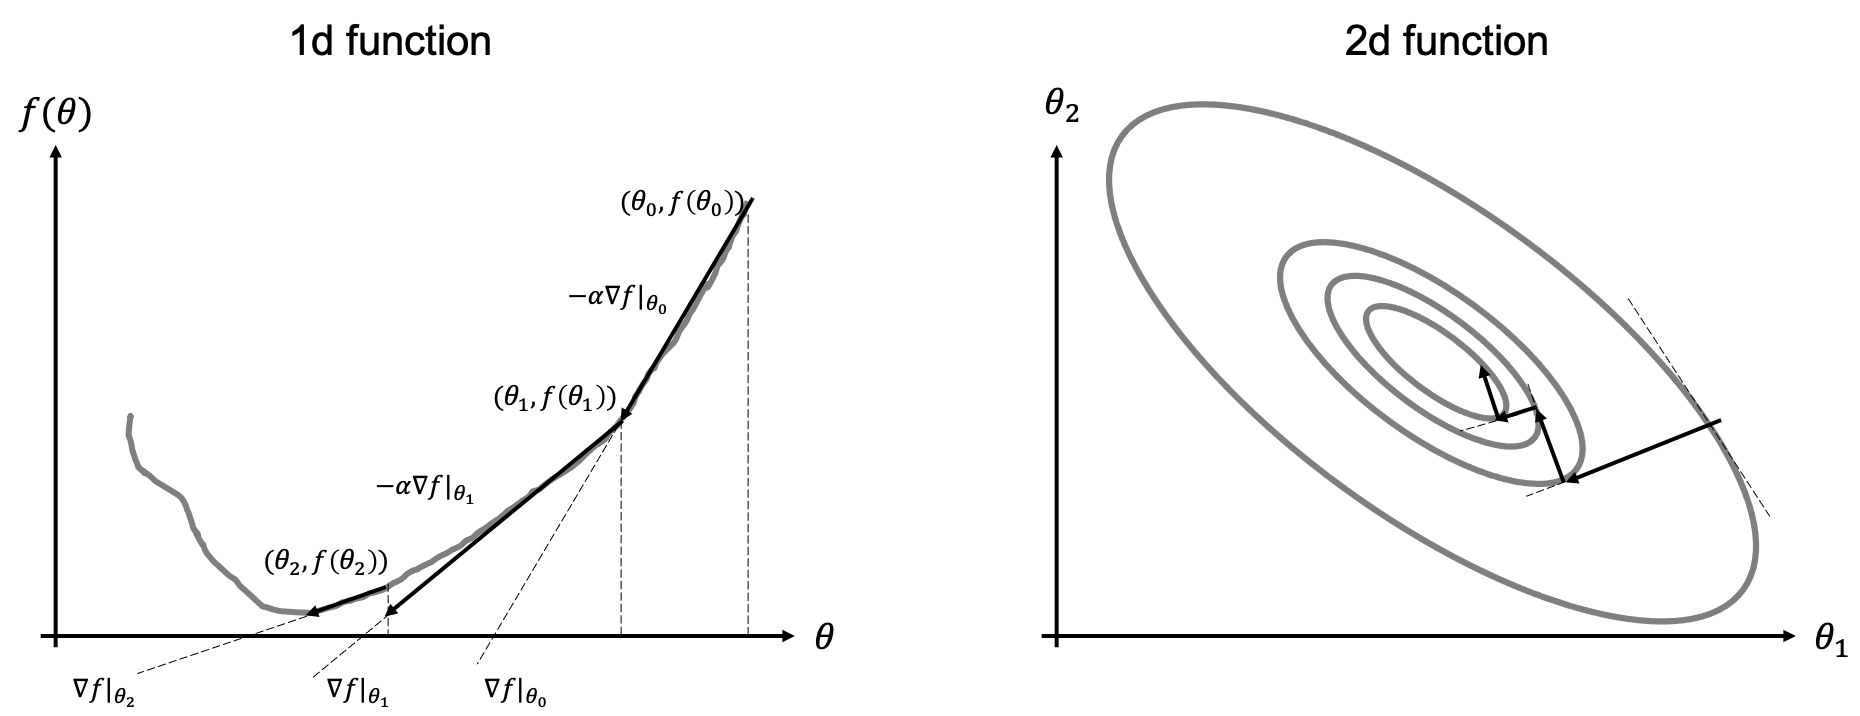
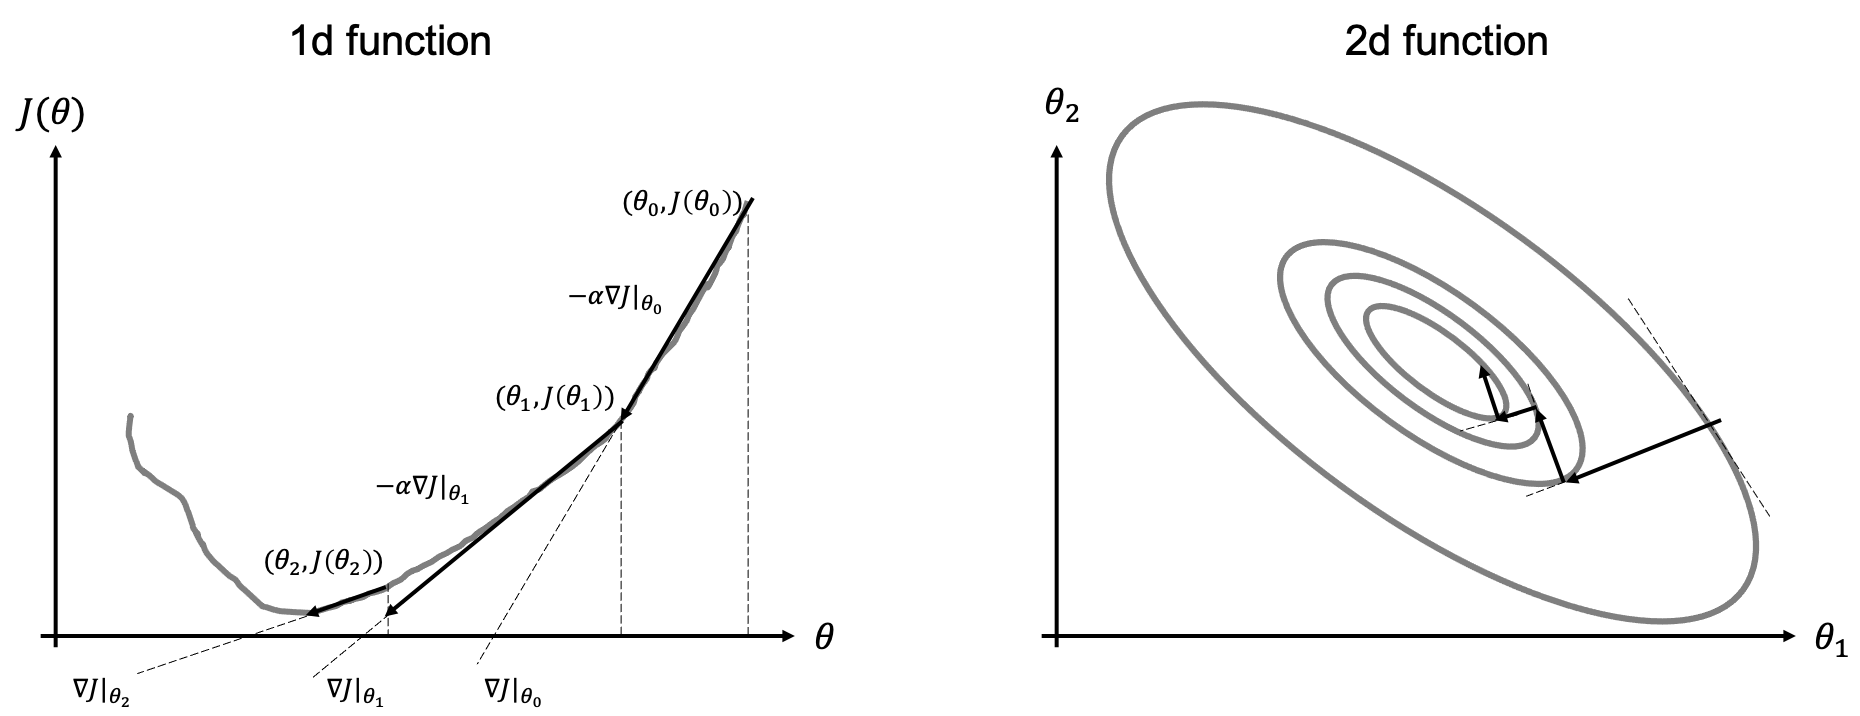
Finalized gradopt lecture and figures

diff --git a/docs/lectures/3_gradopt.md b/docs/lectures/3_gradopt.md
@@ -1,7 +1,8 @@
 # Gradient-based optimization
-After reviewing some of the basic concepts of linear algebra that we will be using during this course, we are now in a position
-to start our journey in the field of *learning algorithms*. Any learning algorithm, no matter its level of complexity, is 
-composed of 4 key elements:
+After reviewing some of the basic concepts of linear algebra and probability that we will be using during this course, 
+we are now in a position to start our journey in the field of *learning algorithms*. 
+
+Any learning algorithm, no matter its level of complexity, is composed of 4 key elements:
 
 **Dataset**: a collection of many examples (sometimes referred to as samples of data points) that represents the experience
 we wish our machine learning algorithm to learn from. More speficically, the dataset is defined as:
@@ -25,15 +26,15 @@ $$
 **Loss (and cost) function**: quantitative measure of the performance of the learning algorithm, which we wish to minimize 
 (or maximize) in order to make accurate predictions on unseen data. It is written as
 $$
-J = \sum_{i=1}^{N_s}  \mathscr{L} (\mathbf{y}^{(i)}, f(\mathbf{x}^{(i)}))
+J_\theta = \frac{1}{N_s} \sum_{j=1}^{N_s} \mathscr{L} (\mathbf{y}^{(j)}, f_\theta(\mathbf{x}^{(j)}))
 $$
 
 where $\mathscr{L}$ is the loss function for each input-output pair and $J$ is the overall cost function.
 
-**Optimization algorithm**: mathematical method that modifies the aims to drive down (up) the cost function by modifying
+**Optimization algorithm**: mathematical method that aims to drive down (up) the cost function by modifying
 its free-parameters $\theta$:
 $$
-\hat{\theta} = \underset{\theta} {\mathrm{argmin}} J
+\hat{\theta} = \underset{\theta} {\mathrm{argmin}} \; J_\theta
 $$
 
 Optimization algorithms are generally divided into two main families: gradient-based 
@@ -47,21 +48,21 @@ mimimum/maximum as depicted in the figure below.
 
 ![GRADIENT OPTIMIZATION](figs/opt_gradient.png)
 
-More formally, given a functional $f_\theta$ and its gradient $\nabla f = \frac{\delta f}{\delta \theta}$, 
-the (minimization) algorithm can be written as:
+More formally, given a functional $J_\theta$ and its gradient 
+$\nabla J = \frac{\delta J}{\delta \theta}$, the (minimization) algorithm can be written as:
 
 Initialization: choose $\theta \in \mathbb{R}$
 
 For $i=0,...N-1$;
 
-1. Compute update direction $d_i = -\nabla f |_{\theta_i}$
+1. Compute update direction $d_i = -\nabla J |_{\theta_i}$
 2. Estimate step-lenght $\alpha_i$
 3. Update $\theta_{i+1} = \theta_{i} + \alpha_i d_i$
 
 Note that the maximization version of this algorithm simply switches the sign in the update direction (first equation of the algorithm).
 Moreover, the proposed algorithm can be easily extended to N-dimensional model vectors $\theta=[\theta_1, \theta_2, ..., \theta_N]$ by
 defining the following gradient vector 
-$\nabla f=[\delta f / \delta\theta_1, \delta f / \delta\theta_2, ..., \delta f/ \delta\theta_N]$.
+$\nabla J=[\delta J / \delta\theta_1, \delta J / \delta\theta_2, ..., \delta J/ \delta\theta_N]$.
 
 ### Step lenght selection
 The choice of the step-lenght has tremendous impact on the performance of the algorithm and its ability to converge 
@@ -72,66 +73,64 @@ The most used selection rules are:
 - Constant: the step size is fixed to a constant value $\alpha_i=\hat{\alpha}$. This is the most common situation that we
   will encounter when training neural networks. In practice, some adaptive schemes based on the evolution of the train
   (or validation) norm are generally adopted, but we will still refer to this case as costant step size;
-- Exact linesearch: at each iteration, $\alpha_i$ is chosen such that it minimizes $f(\theta_{i} + \alpha_i d_i)$. This
+- Exact linesearch: at each iteration, $\alpha_i$ is chosen such that it minimizes $J(\theta_{i} + \alpha_i d_i)$. This
   is the most commonly used approach when dealing with linear systems of equations.
 - Backtracking  "Armijo" linesearch: at each iteration, given a parameter $\mu \in (0,1)$, start with $\alpha_i=1$ 
-  and reduce it by a factor of 2 until the following condition is satisfied: $f(\theta_i) - f(\theta_{i} + \alpha_i d_i) \ge  -\mu \alpha_i \nabla f^T d_i$
+  and reduce it by a factor of 2 until the following condition is satisfied: $J(\theta_i) - J(\theta_{i} + \alpha_i d_i) \ge  -\mu \alpha_i \nabla J^T d_i$
   
 ## Second-order optimization
-Up until now we have discussed first-order optimization techniques that rely on the ability to evaluate the function $f$ and 
-its gradient $\nabla f$. Second-order optimization method go one step beyond in that they use information from both the 
-local slope and curvature of the function f. 
+Up until now we have discussed first-order optimization techniques that rely on the ability to evaluate the function $J$ and 
+its gradient $\nabla J$. Second-order optimization method go one step beyond in that they use information from both the 
+local slope and curvature of the function $J$. 
 
 When a function has small curvature, the function and its tangent line are very similar: 
-the gradient alone is therefore able to provide a good local approximation of the function (i.e., $f(\theta+\delta \theta)\approx f(\theta) + \nabla f \delta \theta$).
+the gradient alone is therefore able to provide a good local approximation of the function (i.e., $J(\theta+\delta \theta)\approx J(\theta) + \nabla J \delta \theta$).
 On the other hand, if the curvature of the function of large, the function and its tangent line start to differ very quickly away from
 the linearization point. The gradient alone is not able anymore to provide a good local approximation of the function 
-(i.e., $f(\theta+\delta \theta)\approx f(\theta) + \nabla f \delta \theta + \nabla^2 f \delta \theta^2$).
+(i.e., $J(\theta+\delta \theta)\approx J(\theta) + \nabla J \delta \theta + \nabla^2 J \delta \theta^2$).
 
 Let's start again from the one-dimensional case and the well-known **Newton's method**. This method is generally employed to find the zeros of a function:
-$x: f(x)=0$ and can be written as:
+$\theta: J(\theta)=0$ and can be written as:
 
 $$
-x_{i+1} = x_i - \frac{f(x)|_{x_i}}{f'(x)|_{x_i}} 
+\theta_{i+1} = \theta_i - \frac{J(\theta)|_{\theta_i}}{J'(\theta)|_{\theta_i}} 
 $$
 
-which can be easily derived from the Taylor expansion of $f(x)$ around $x_{i+1}$.
+which can be easily derived from the Taylor expansion of $f(\theta)$ around $\theta_{i+1}$.
 
 If we remember that finding the minimum (or maximum) of a function is equivalent to find the zeros of its first derivative 
-($x: min_x f(x) \leftrightarrow x: f'(x)=0$), the Netwon's method can
-be written as:
+($\theta: min_\theta f(\theta) \leftrightarrow \theta: f'(\theta)=0$), the Netwon's method can be written as:
 
 $$
-x_{i+1} = x_i - \frac{f'(x)|_{x_i}}{f''(x)|_{x_i}} 
+\theta_{i+1} = \theta_i - \frac{J'(\theta)|_{\theta_i}}{J''(\theta)|_{\theta_i}} 
 $$
 
-This is the so-called **Gauss-Netwon method**.
+In order to be able to discuss second-order optimization algorithms for the multi-dimensional case, 
+let's first introduce the notion of *Jacobian*:
 
-In order to be able to discuss second-order optimization algorithms for the multi-dimensional case, let's first introduce the notion of *Jacobian*:
-
-$$\mathbf{y} = f(\mathbf{x}) \rightarrow  \mathbf{J}  = \begin{bmatrix} 
-                \frac{\partial f_1}{\partial x_1} & \frac{\partial f_1}{\partial x_2} & ... & \frac{\partial f_1}{\partial x_M} \\
+$$\mathbf{y} = J(\boldsymbol\theta) \rightarrow  \mathbf{J}  = \begin{bmatrix} 
+                \frac{\partial J_1}{\partial \theta_1} & \frac{\partial J_1}{\partial \theta_2} & ... & \frac{\partial J_1}{\partial \theta_M} \\
                 ...     & ...  & ...   & ... \\
-                \frac{\partial f_N}{\partial x_1} & \frac{\partial f_N}{\partial x_2} & ... & \frac{\partial f_N}{\partial x_M} \\
+                \frac{\partial J_N}{\partial \theta_1} & \frac{\partial J_N}{\partial \theta_2} & ... & \frac{\partial J_N}{\partial \theta_M} \\
   \end{bmatrix} \in \mathbb{R}^{[N \times M]}
 $$
 
 Through the notion of Jacobian, we can define the **Hessian** as the Jacobian of the gradient vector
 
-$$\mathbf{H} = \nabla (\nabla f) = \begin{bmatrix} 
-                \frac{\partial f^2}{\partial x_1^2} & \frac{\partial f^2}{\partial x_1 \partial x_2 } & ... & \frac{\partial f^2}{\partial x_1\partial x_M} \\
+$$\mathbf{H} = \nabla (\nabla J) = \begin{bmatrix} 
+                \frac{\partial J^2}{\partial \theta_1^2} & \frac{\partial J^2}{\partial x_1 \partial \theta_2} & ... & \frac{\partial J^2}{\partial \theta_1\partial \theta_M} \\
                 ...     & ...  & ...   & ... \\
-                \frac{\partial f^2}{\partial x_M \partial x_1} & \frac{\partial f^2}{\partial x_M \partial x_2} & ... & \frac{\partial f^2}{\partial x_M^2} \\
+                \frac{\partial J^2}{\partial \theta_M \partial \theta_1} & \frac{\partial J^2}{\partial \theta_M \partial \theta_2} & ... & \frac{\partial J^2}{\partial \theta_M^2} \\
   \end{bmatrix} \in \mathbb{R}^{[M \times M]}
 $$
 
-where we note that when $f$ is continuous, $\partial / \partial x_i \partial x_j = \partial / \partial x_j \partial x_i$, and $\mathbf{H}$
+where we note that when $J$ is continuous, $\partial / \partial \theta_i \partial \theta_j = \partial / \partial \theta_j \partial \theta_i$, and $\mathbf{H}$
 is symmetric.
 
-The Gauss-Newton method can be written as:
+The Newton method for the multi-dimensional case becomes:
 
 $$
-\mathbf{x}_{i+1} = \mathbf{x}_i - \mathbf{H}^{-1}\nabla f
+\boldsymbol\theta_{i+1} = \boldsymbol\theta_i - \mathbf{H}^{-1}\nabla J
 $$
 
 Approximated version of the Gauss-Netwon method have been developed over the years, mostly based on the idea that inverting $\mathbf{H}$ is
@@ -141,11 +140,60 @@ or its limited memory version [L-BFGS](https://en.wikipedia.org/wiki/Limited-mem
 (as well as the lack of solid theories for their use in conjunction with approximate gradients), these methods are not yet commonly used by the
 machine learning community to optimize the parameters of NNs in deep learning.
 
-## Stochastic-gradient descent
+## Stochastic-gradient descent (SGD)
 
-!!HERE!!
+To conclude, we look again and gradient-based iterative solvers and more specifically in the context of finite-sum functionals of the kind
+that we will encountering when training neural networks:
 
+$$
+J_\theta = \frac{1}{N_s} \sum_{i=1}^{N_s} \mathscr{L} (\mathbf{y}^{(i)}, f_\theta(\mathbf{x}^{(i)}))
+$$
+
+where the summation is here performed over training data.
+
+### Batched gradient descent 
+The solvers that we have considered so far are generally referred to as  methods as they update the
+model parameters $\boldsymbol\theta$ using the full gradient (i.e., over the entire batch of samples):
+
+$$
+\boldsymbol\theta_{i+1} = \boldsymbol\theta_{i} - \alpha_i \nabla J = \boldsymbol\theta_{i} - \frac{\alpha_i}{N_s} \sum_{j=1}^{N_s} \nabla \mathscr{L}_j
+$$
+
+A limitation of such an approach is that, if we have a very large number of training samples, the computational cost of computing the
+full gradient is very high and when some of the samples are similar their gradient contribution is somehow redundant.
+
+### Stochastic gradient descent
+
+In this case we take a completely opposite approach to computing the gradient. More specifically, a single
+training sample is considered at each iteration:
+
+$$
+\boldsymbol\theta_{i+1} = \boldsymbol\theta_{i} - \alpha_i \nabla \mathscr{L}_j
+$$
+
+The choice of the training sample $j$ at each iteration is generally completely random and this is repeated once all training data have
+been used at least once (generally referred to as *epoch*). In this case, the gradient may be noisy because the gradient of a single
+sample is a very rough approximation of the total cost function $J$: such a high variance of gradients requires lowering the 
+step-size $\alpha$ leading to slow convergence.
+
+### Mini-batched gradient descent
+
+A more commonly used strategy, that lies in between the batched and stochastic gradient descent algorithms 
+uses batches of training samples to compute the gradient at each iteration. More spefically given a batch of 
+$N_b$ samples, the update formula can be written as:
+
+$$
+\boldsymbol\theta_{i+1} = \boldsymbol\theta_{i} - \frac{\alpha_i}{N_b} \sum_{j=1}^{N_b} \nabla \mathscr{L}_j
+$$
+
+and similarly to the stochastic gradient descent, the batches of data are chosen at random and this is repeated as soon as all 
+data are used once in the training loop. Whilst the choice of the size of the batch depends on many factors 
+(e.g., overall size of the dataset, variety of training samples), common batch sizes in training of NNs are from around 50 to 256 
+(unless memory requirements kick in leading to even small batch sizes).
+
+![GD LOSSES](figs/opt_losses.png)
 
 Finally, I encourage everyone to read the following [blog post](https://ruder.io/optimizing-gradient-descent/) for a more
-detailed overview of the optimization algorithms discussed here. Note that we will also look more into some of the recent 
-optimization algorithms that overcome some of the limitations of standard SGD in [this lecture](lectures/10_gradopt1.md).
+detailed overview of the optimization algorithms discussed here. Note that in one of our future [lectures](lectures/10_gradopt1.md) 
+we will also look again at optimization algorithms and more specifically discuss strategies that allow overcoming some of the 
+limitations of standard SGD in [this lecture](lectures/10_gradopt1.md).
